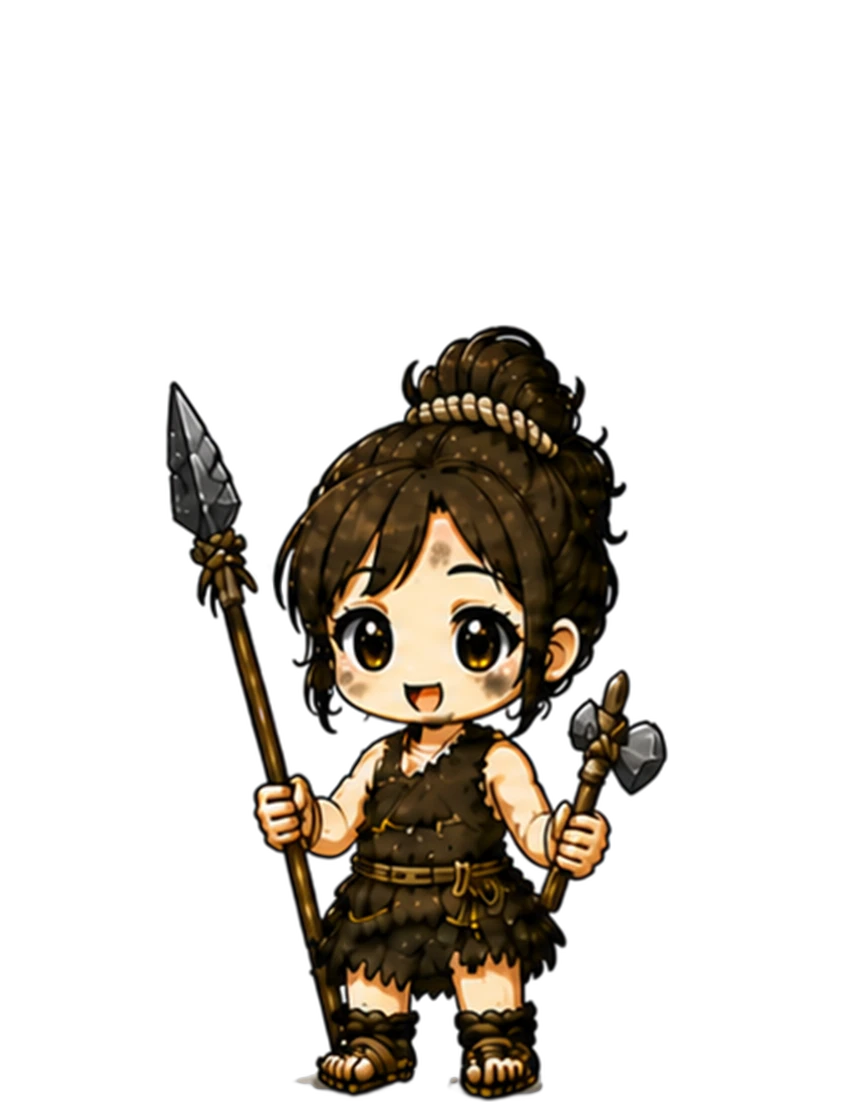
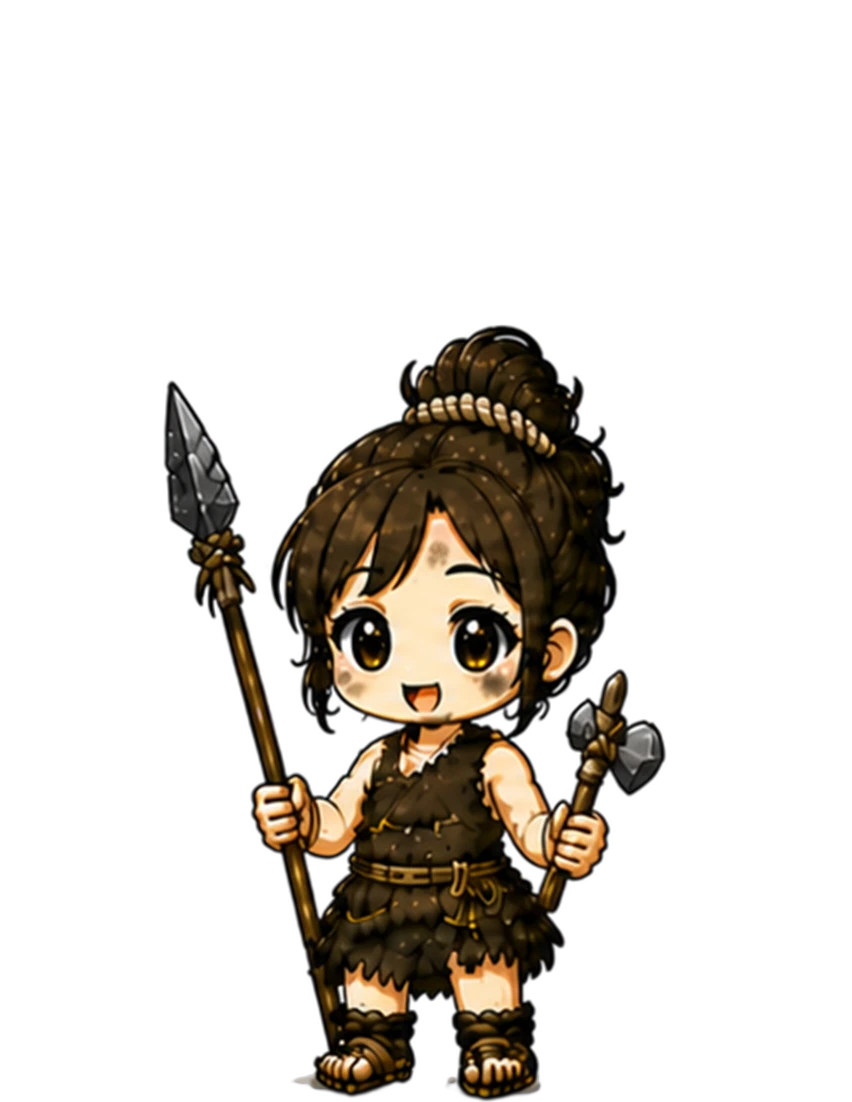
fix(hub): 첫 그림이 기본값으로 튀던 것 · 여자 Lv.7 교체
허브·남의 방은 get-hub 응답을 기다리지 않고 먼저 그려서, 기본 배경(초원) +
기본 UI + 폴백 캐릭터 + Lv.1 조합이 떴다가 덮였다. 그 순간부터 진짜 배경 PNG 를
받기 시작해서 잘못된 조합이 더 오래 버텼다. FAB 아바타(색 젬 → 내 사진)와
허브 HUD 이름(CARI → 닉네임)도 같은 깜빡임이었다.

- lib/lastLook.ts: 마지막에 본 모습(스킨·캐릭터·점수·아바타·이름)을 uid 로 묶어
  적어 두고 첫 그림에 쓴다. 표시 전용 — 판정에는 쓰지 않는다.
- Room: 남의 방은 주인이 매번 달라 적어 둘 수 없다 → 응답 전에는 무대를 안 그린다.
- build-char-art: Lv.7 만 다른 시트에서 가져오는 길(네 번째 인자)과 단색 키 배경
  빼기. 부드럽게 번지는 빛은 생성 AI 가 배경색과 섞어 칠하므로 못 되살린다 —
  또렷한 테두리 안에서 끝나는 그림에만 쓴다.
- 여자 Lv.7 을 후광이 또렷한 새 시트로 교체.
- 캐릭터 계열 b·c 를 진열에서 내린다(그림이 없어 폴백만 뜨던 빈 껍데기).

diff --git a/src/pages/Hub.tsx b/src/pages/Hub.tsx
@@ -31,6 +31,7 @@ import {
   CHAR_KEYS, CHAR_LEVELS, CHAR_MIN_LEVEL, charSeriesOf,
   DEFAULT_SKIN_PART, SKINS, isCharKey, isSkinKey, skinByPart, skinThumb,
 } from '../lib/hubCosmetics'
+import { lastLook, saveLook } from '../lib/lastLook'
 
 // ── 아이콘: 기존 SVG 유지 ──
 const IK = '#2b2015'
@@ -244,8 +245,14 @@ export default function Hub() {
   const [catalog, setCatalog] = useState<CatalogItem[]>([])
   const [purchased, setPurchased] = useState<string | null>(null)
   const [toast, setToast] = useState<{ text: string; bad: boolean } | null>(null)
-  const [avatarUrl, setAvatarUrl] = useState<string | null>(null)
-  const [displayName, setDisplayName] = useState<string | null>(null)
+  // 마지막에 본 내 모습 — **응답 전에도 화면은 그려지므로** 초기값을 여기서 가져온다(`lib/lastLook.ts`).
+  // 없으면 예전과 똑같이 기본값으로 시작한다. ⛔ 판정에는 쓰지 않는다 — 그림을 미리 까는 용도뿐이다.
+  //   ⚠ 초기값 계산은 한 번만 돈다(useState 의 함수형 초기화) — 렌더마다 읽으면 낭비다.
+  //   ⚠ 아래 useState 들보다 **먼저** 있어야 한다(같은 함수 안이라 선언 전에는 못 읽는다).
+  const remembered = useState(() => lastLook(user?.id))[0]
+  // ⚠ 아바타·이름도 마지막 값으로 시작한다 — 안 그러면 HUD 가 색 젬 + 'CARI' 로 떴다가 바뀐다.
+  const [avatarUrl, setAvatarUrl] = useState<string | null>(remembered?.avatar ?? null)
+  const [displayName, setDisplayName] = useState<string | null>(remembered?.name ?? null)
   // 공유 카드 하단 바용 프로필 값(가입일 · 국가 · 지역). 학교는 넣지 않는다.
   const [joinedAt, setJoinedAt] = useState<string | null>(null)
   const [countryCode, setCountryCode] = useState<string | null>(null)
@@ -259,8 +266,9 @@ export default function Hub() {
   const [closetTab, setClosetTab] = useState<ClosetTab>('shop')
   // ── 꾸미기(캐릭터·스킨) ──
   // 장착값. 서버(get-hub)가 권위고 화면은 낙관적으로 먼저 반영한 뒤 hydrate 로 맞춘다.
-  const [charKey, setCharKey] = useState<string | null>(null)
-  const [skinPart, setSkinPart] = useState<string>(DEFAULT_SKIN_PART)
+  // ⚠ 마지막에 본 모습으로 시작한다 — 안 그러면 기본배경+기본UI+폴백캐릭터 조합이 먼저 떴다가 덮인다.
+  const [charKey, setCharKey] = useState<string | null>(remembered?.char ?? null)
+  const [skinPart, setSkinPart] = useState<string>(remembered?.skin ?? DEFAULT_SKIN_PART)
   // 첫 진입 흐름 — null = 아직 서버에 안 물어봄(모름). 모르는 동안은 아무 오버레이도 띄우지 않는다.
   //   ⚠ false 로 시작하면 하이드레이트 전 한 프레임 동안 이미 끝낸 사람에게도 선택 화면이 번쩍인다.
   const [charChosen, setCharChosen] = useState<boolean | null>(null)
@@ -287,7 +295,9 @@ export default function Hub() {
   const [tutorialStep, setTutorialStep] = useState(0)
   const [, setSkillScore] = useState(0)
   const [, setActivityScore] = useState(0)
-  const [seasonTotal, setSeasonTotal] = useState(0) // 공유 카드의 시즌 점수 / 전투력
+  // 공유 카드의 시즌 점수 / 전투력. ⚠ 캐릭터 레벨이 여기서 파생되므로 마지막 값으로 시작해야
+  // 첫 그림에서 Lv.1 그림을 받았다가 곧바로 내 레벨 그림을 다시 받는 일이 없다.
+  const [seasonTotal, setSeasonTotal] = useState(remembered?.score ?? 0)
   const [percentile, setPercentile] = useState<number | null>(null)
   // '다음 순위까지 N점' — 옛 랭킹 게이지 라벨. 경험치 바가 ARENA 레벨 진행도로 바뀌면서 화면에서 빠졌다.
   const [, setPointsToPass] = useState<number | null>(null)
@@ -373,8 +383,12 @@ export default function Hub() {
     supabase.from('profiles').select('avatar_url, display_name, created_at, country_code, region_code').eq('id', uid).maybeSingle()
       .then(({ data }) => {
         if (!alive) return
-        setAvatarUrl((data?.avatar_url as string | null) ?? null)
-        setDisplayName((data?.display_name as string | null) ?? null)
+        const av = (data?.avatar_url as string | null) ?? null
+        const nm = (data?.display_name as string | null) ?? null
+        setAvatarUrl(av)
+        setDisplayName(nm)
+        // 다음 진입의 첫 그림용 — 여기가 이 두 값의 유일한 쓰기 자리다(lib/lastLook.ts).
+        saveLook(uid, { avatar: av, name: nm })
         setJoinedAt((data?.created_at as string | null) ?? null)
         setCountryCode((data?.country_code as string | null) ?? null)
         setRegionCode((data?.region_code as string | null) ?? null)
@@ -430,8 +444,12 @@ export default function Hub() {
     setGiftsOlder(h.giftsOlder ?? 0)
     setGiftsUnseen(h.giftsUnseen ?? 0)
     // 꾸미기 장착값 — 서버가 권위다. 'default'(아직 안 고름)는 null 로 눕혀 폴백 그림 하나로 처리한다.
-    setCharKey(h.baseKey && h.baseKey !== 'default' ? h.baseKey : null)
-    setSkinPart(h.equipped?.skin ?? DEFAULT_SKIN_PART)
+    const nextChar = h.baseKey && h.baseKey !== 'default' ? h.baseKey : null
+    const nextSkin = h.equipped?.skin ?? DEFAULT_SKIN_PART
+    setCharKey(nextChar)
+    setSkinPart(nextSkin)
+    // 다음 진입의 첫 그림용으로 적어 둔다 — **서버 응답이 온 뒤가 유일한 쓰기 자리**다(lib/lastLook.ts).
+    saveLook(user?.id, { skin: nextSkin, char: nextChar, score: h.seasonTotal ?? 0 })
     // 첫 진입 흐름. **비로그인 응답(authed=false)에는 이 값이 없다** — 그때는 모름(null)으로 두어야
     // 게스트 화면에 캐릭터 선택이 뜨는 일이 없다(허브는 로그인 전용이라 실제로 도달하진 않는다).
     if (h.authed) {

diff --git a/src/lib/lastLook.ts b/src/lib/lastLook.ts
@@ -1,0 +1,66 @@
+// 마지막에 본 '내 모습'을 브라우저에 적어 둔다 — 첫 그림이 기본값으로 튀는 걸 막으려고.
+//
+// 왜 필요한가 (2026-08-26)
+//   화면은 서버 응답을 기다려주지 않는다. 그래서 응답이 오기 전 한 박자 동안 **초기값**이 그려지고,
+//   응답이 도착하면 그 위에 덮인다. 값이 비어 있으면(빈 목록 등) 티가 안 나지만, 초기값이
+//   '그럴듯한 다른 것'이면 틀린 화면이 먼저 보였다가 바뀐다:
+//     · /hub  — 기본 배경(초원) + 기본 UI + 폴백 캐릭터 + Lv.1 이 떴다가 내 것으로 덮임
+//               (게다가 그때부터 진짜 배경 PNG 를 받기 시작해서 더 오래 버틴다)
+//     · 떠 있는 FAB — 색 젬이 떴다가 내가 올린 사진으로 바뀜
+//     · 허브 HUD 이름 — 'CARI' 가 떴다가 내 닉네임으로 바뀜
+//   마지막에 본 값으로 먼저 그리면 거의 항상 맞으므로 그 깜빡임이 사라진다.
+//
+// ⛔ **판정에 쓰면 안 된다. 화면에 미리 그리는 용도뿐이다.**
+//    (캐릭터 선택·튜토리얼 완료·닉네임 확정 같은 게이트를 localStorage 로 판정하면 브라우저를
+//     바꾸거나 지운 순간 이미 끝낸 사람에게 첫 화면이 다시 강제된다 — 그건 서버가 답할 문제다.)
+//    여기 값은 서버 응답이 오면 **무조건 덮인다.** 없거나 틀려도 그때 고쳐진다.
+// ⚠ **uid 로 묶는다.** 한 브라우저에서 계정을 바꿔 쓰면 앞사람 모습이 먼저 뜬다.
+//    아직 uid 를 모르는 시점(인증 하이드레이트 전)에는 그냥 쓴다 — 틀려도 응답이 고쳐주고,
+//    지금(언제나 기본값으로 시작)보다 나빠질 수는 없다.
+// ⚠ **부분 갱신이다.** 쓰는 자리가 둘(허브 응답 · 프로필 조회)이라 통째로 덮으면 서로 지운다.
+
+const KEY = 'gara_last_look'
+
+export interface LastLook {
+  uid: string
+  /** 장착한 스킨의 part_key (`/hub` 배경·UI 한 벌) */
+  skin?: string
+  /** 장착한 캐릭터 키. 아직 안 골랐으면 null */
+  char?: string | null
+  /** 시즌 총점 — 캐릭터 레벨(ARENA 레벨)이 여기서 파생된다 */
+  score?: number
+  /** `profiles.avatar_url` 원문(`gem:`·`img:`·`mascot:` 접두사 그대로) */
+  avatar?: string | null
+  /** `profiles.display_name` — 허브 HUD 이름과 FAB 이름 */
+  name?: string | null
+}
+
+function read(): LastLook | null {
+  try {
+    const raw = localStorage.getItem(KEY)
+    if (!raw) return null
+    const v = JSON.parse(raw) as Partial<LastLook>
+    return typeof v?.uid === 'string' ? (v as LastLook) : null
+  } catch {
+    return null
+  }
+}
+
+/** 적어 둔 모습. uid 를 알고 있는데 주인이 다르면 안 준다. */
+export function lastLook(uid: string | null | undefined): LastLook | null {
+  const v = read()
+  if (!v) return null
+  return uid && v.uid !== uid ? null : v
+}
+
+/** 아는 것만 골라 덮어쓴다. 주인이 바뀌었으면 통째로 새로 시작한다. */
+export function saveLook(uid: string | null | undefined, patch: Omit<Partial<LastLook>, 'uid'>): void {
+  if (!uid) return
+  try {
+    const cur = read()
+    const base: LastLook = cur && cur.uid === uid ? cur : { uid }
+    localStorage.setItem(KEY, JSON.stringify({ ...base, ...patch, uid }))
+  } catch {
+    /* 사파리 프라이빗 등에서 막힐 수 있다. 못 적어도 화면은 예전처럼 동작한다. */
+  }
+}

diff --git a/src/pages/Room.tsx b/src/pages/Room.tsx
@@ -72,24 +72,32 @@ export default function Room() {
   }
 
   const isMine = !!user?.id && user.id === handle
-  // 아직 응답을 못 받았으면 기본 스킨으로 그린다(skinByPart 가 모르는 값·null 을 기본으로 떨어뜨린다).
-  const skin = skinByPart(data?.skin ?? null)
+  // ⚠ **응답 전에는 무대를 안 그린다**(2026-08-26). 예전엔 기본 스킨으로 먼저 그렸는데, 남의 방은
+  //    열 때마다 주인이 달라서 그 기본값이 맞을 확률이 거의 없다 — 초원 배경 + 폴백 캐릭터가 떴다가
+  //    그 사람 것으로 덮이는 게 매번 보였다. 허브(`lib/lastLook.ts`)처럼 적어 둘 수도 없는 자리다.
+  //    아래 `stage-zone` 이 그동안 '불러오는 중'을 띄우므로 빈 화면이 되지도 않는다.
+  const skin = data ? skinByPart(data.skin ?? null) : null
   const name = data?.name || t('room.someone')
   const badge = data?.title ? <span className="tt">🏆 CARIS {tierName(data.title)}</span> : null
 
   return (
-    <div className="hub" data-skin={skin.key} data-ui={skin.ui}>
+    <div className="hub" data-skin={skin?.key} data-ui={skin?.ui}>
       {/* 무대 = 그 사람의 배경 + 그 사람의 캐릭터. /hub 와 **같은 마크업·같은 CSS** 다 —
           내 허브와 남이 보는 내 방이 갈리면 배치를 바꿔봐야 드러나 제일 늦게 발견된다.
-          ⚠ `.hub-scene` 은 `.hub > *:not(...)` 예외 목록에 있어야 viewport 고정이 풀리지 않는다. */}
-      <div className="hub-scene" aria-hidden="true">
-        <div className="hub-scene-bg" />
-        <div className="hub-scene-char">
-          {/* 레벨은 시즌 총점에서 파생한다 — 허브가 자기 화면에 쓰는 것과 같은 함수라
-              내 허브와 남이 보는 내 방의 캐릭터가 어긋나지 않는다. */}
-          <CharArt charKey={data?.character ?? null} level={arenaLevelForScore(data?.seasonTotal ?? 0)} className="hub-scene-char-img" />
+          ⚠ `.hub-scene` 은 `.hub > *:not(...)` 예외 목록에 있어야 viewport 고정이 풀리지 않는다.
+          ⚠ **응답이 오기 전에는 통째로 안 그린다.** 칸의 위치·크기는 `.hub[data-skin]` 선택자가
+             잡는데 그 값이 없으면 그림만 남아 제 크기로 튀어나온다(스킨 아이콘을 마크업에 박았을 때
+             512px 원본이 화면을 덮었던 것과 같은 사고다). */}
+      {skin && (
+        <div className="hub-scene" aria-hidden="true">
+          <div className="hub-scene-bg" />
+          <div className="hub-scene-char">
+            {/* 레벨은 시즌 총점에서 파생한다 — 허브가 자기 화면에 쓰는 것과 같은 함수라
+                내 허브와 남이 보는 내 방의 캐릭터가 어긋나지 않는다. */}
+            <CharArt charKey={data?.character ?? null} level={arenaLevelForScore(data?.seasonTotal ?? 0)} className="hub-scene-char-img" />
+          </div>
         </div>
-      </div>
+      )}
 
       <div className="hub-backrow">
         {/* 들어온 길이 랭킹일 수도 채팅일 수도 SNS 일 수도 있다 — 어디서 왔든 말이 되는 곳(아레나)으로 보낸다. */}

diff --git a/src/components/Layout.tsx b/src/components/Layout.tsx
@@ -7,6 +7,7 @@ import { loadAdminMe } from '../lib/adminMe'
 import GemAvatar, { Avatar } from './GemAvatar'
 import { GEM_COLORS, ADMIN_MASCOT_COUNT, parseAvatar, uploadAvatar } from '../lib/avatar'
 import { isSEB } from '../lib/seb'
+import { lastLook, saveLook } from '../lib/lastLook'
 import { clearInquiryAlert, refreshInquiryAlert, useInquiryAlert } from '../lib/inquiryAlert'
 import { useT, LANGS } from '../lib/i18n'
 import {
@@ -31,10 +32,16 @@ export default function Layout({ children }: { children: ReactNode }) {
   const { t, lang, setLang } = useT()
   const { user, isFullUser, logout } = useAuth()
   const [open, setOpen] = useState(false)
+  // ⚠ 프로필이 오기 전 한 박자를 **마지막에 본 값**으로 메운다(`lib/lastLook.ts`) — 안 그러면
+  //    떠 있는 FAB 이 색 젬으로 떴다가 내가 올린 사진으로 바뀌는 게 화면마다 보인다.
+  // ⛔ 표시용 초기값일 뿐이다. 진짜 값이 오면 그대로 덮이고, 게스트면 아래 이펙트가 즉시 null 로 되돌린다.
   const [profile, setProfile] = useState<{
     display_name: string | null
     avatar_url: string | null
-  } | null>(null)
+  } | null>(() => {
+    const l = isFullUser ? lastLook(user?.id) : null
+    return l ? { display_name: l.name ?? null, avatar_url: l.avatar ?? null } : null
+  })
   const [picking, setPicking] = useState(false)
   const [uploading, setUploading] = useState(false)
   const [uploadErr, setUploadErr] = useState('')
@@ -93,7 +100,11 @@ export default function Layout({ children }: { children: ReactNode }) {
       .select('display_name, avatar_url')
       .eq('id', user.id)
       .maybeSingle()
-      .then(({ data }) => setProfile(data ?? null))
+      .then(({ data }) => {
+        setProfile(data ?? null)
+        // 다음 진입의 첫 그림용으로 적어 둔다(lib/lastLook.ts). 허브도 같은 값을 쓴다.
+        saveLook(user.id, { avatar: data?.avatar_url ?? null, name: data?.display_name ?? null })
+      })
   }, [isFullUser, user])
 
   // 1:1 문의 '새 답변' 빨간 점 — FAB 은 로그인한 모든 화면에 떠 있으므로 여기가 셈의 자리다.
@@ -138,6 +149,8 @@ export default function Layout({ children }: { children: ReactNode }) {
     if (!user) return
     await supabase.from('profiles').update({ avatar_url: val }).eq('id', user.id)
     setProfile((p) => ({ display_name: p?.display_name ?? null, avatar_url: val }))
+    // 방금 바꾼 아바타를 적어 둬야 다음 진입의 첫 그림이 옛 아바타로 뜨지 않는다.
+    saveLook(user.id, { avatar: val })
   }
 
   async function pickColor(c: string) {

diff --git a/src/lib/hubCosmetics.ts b/src/lib/hubCosmetics.ts
@@ -29,7 +29,7 @@
  *
  * ⚠ 지금은 **a 한 줄뿐이다**(2026-08-26). b·c 는 그림이 아직 없어서 고르면 폴백 한 장만 뜨는
  *    빈 껍데기였다 — 시트가 도착하면 여기에 다시 넣고 `shop_catalog` 의 active 를 되살리면 된다
- *    (행은 안 지웠다: `20260826140000_hub_char_bc_off.sql`).
+ *    (행은 안 지웠다: `20260826170000_hub_char_bc_off.sql`).
  */
 export const CHAR_SERIES = ['a'] as const
 export type CharSeries = (typeof CHAR_SERIES)[number]
@@ -84,7 +84,7 @@ export const CHAR_FALLBACK_AR = 512 / 640
  */
 export const CHAR_AR: Record<string, number> = {
   char_a_m: 809 / 1220,
-  char_a_f: 857 / 1102,
+  char_a_f: 852 / 1102,
 }
 
 /**
